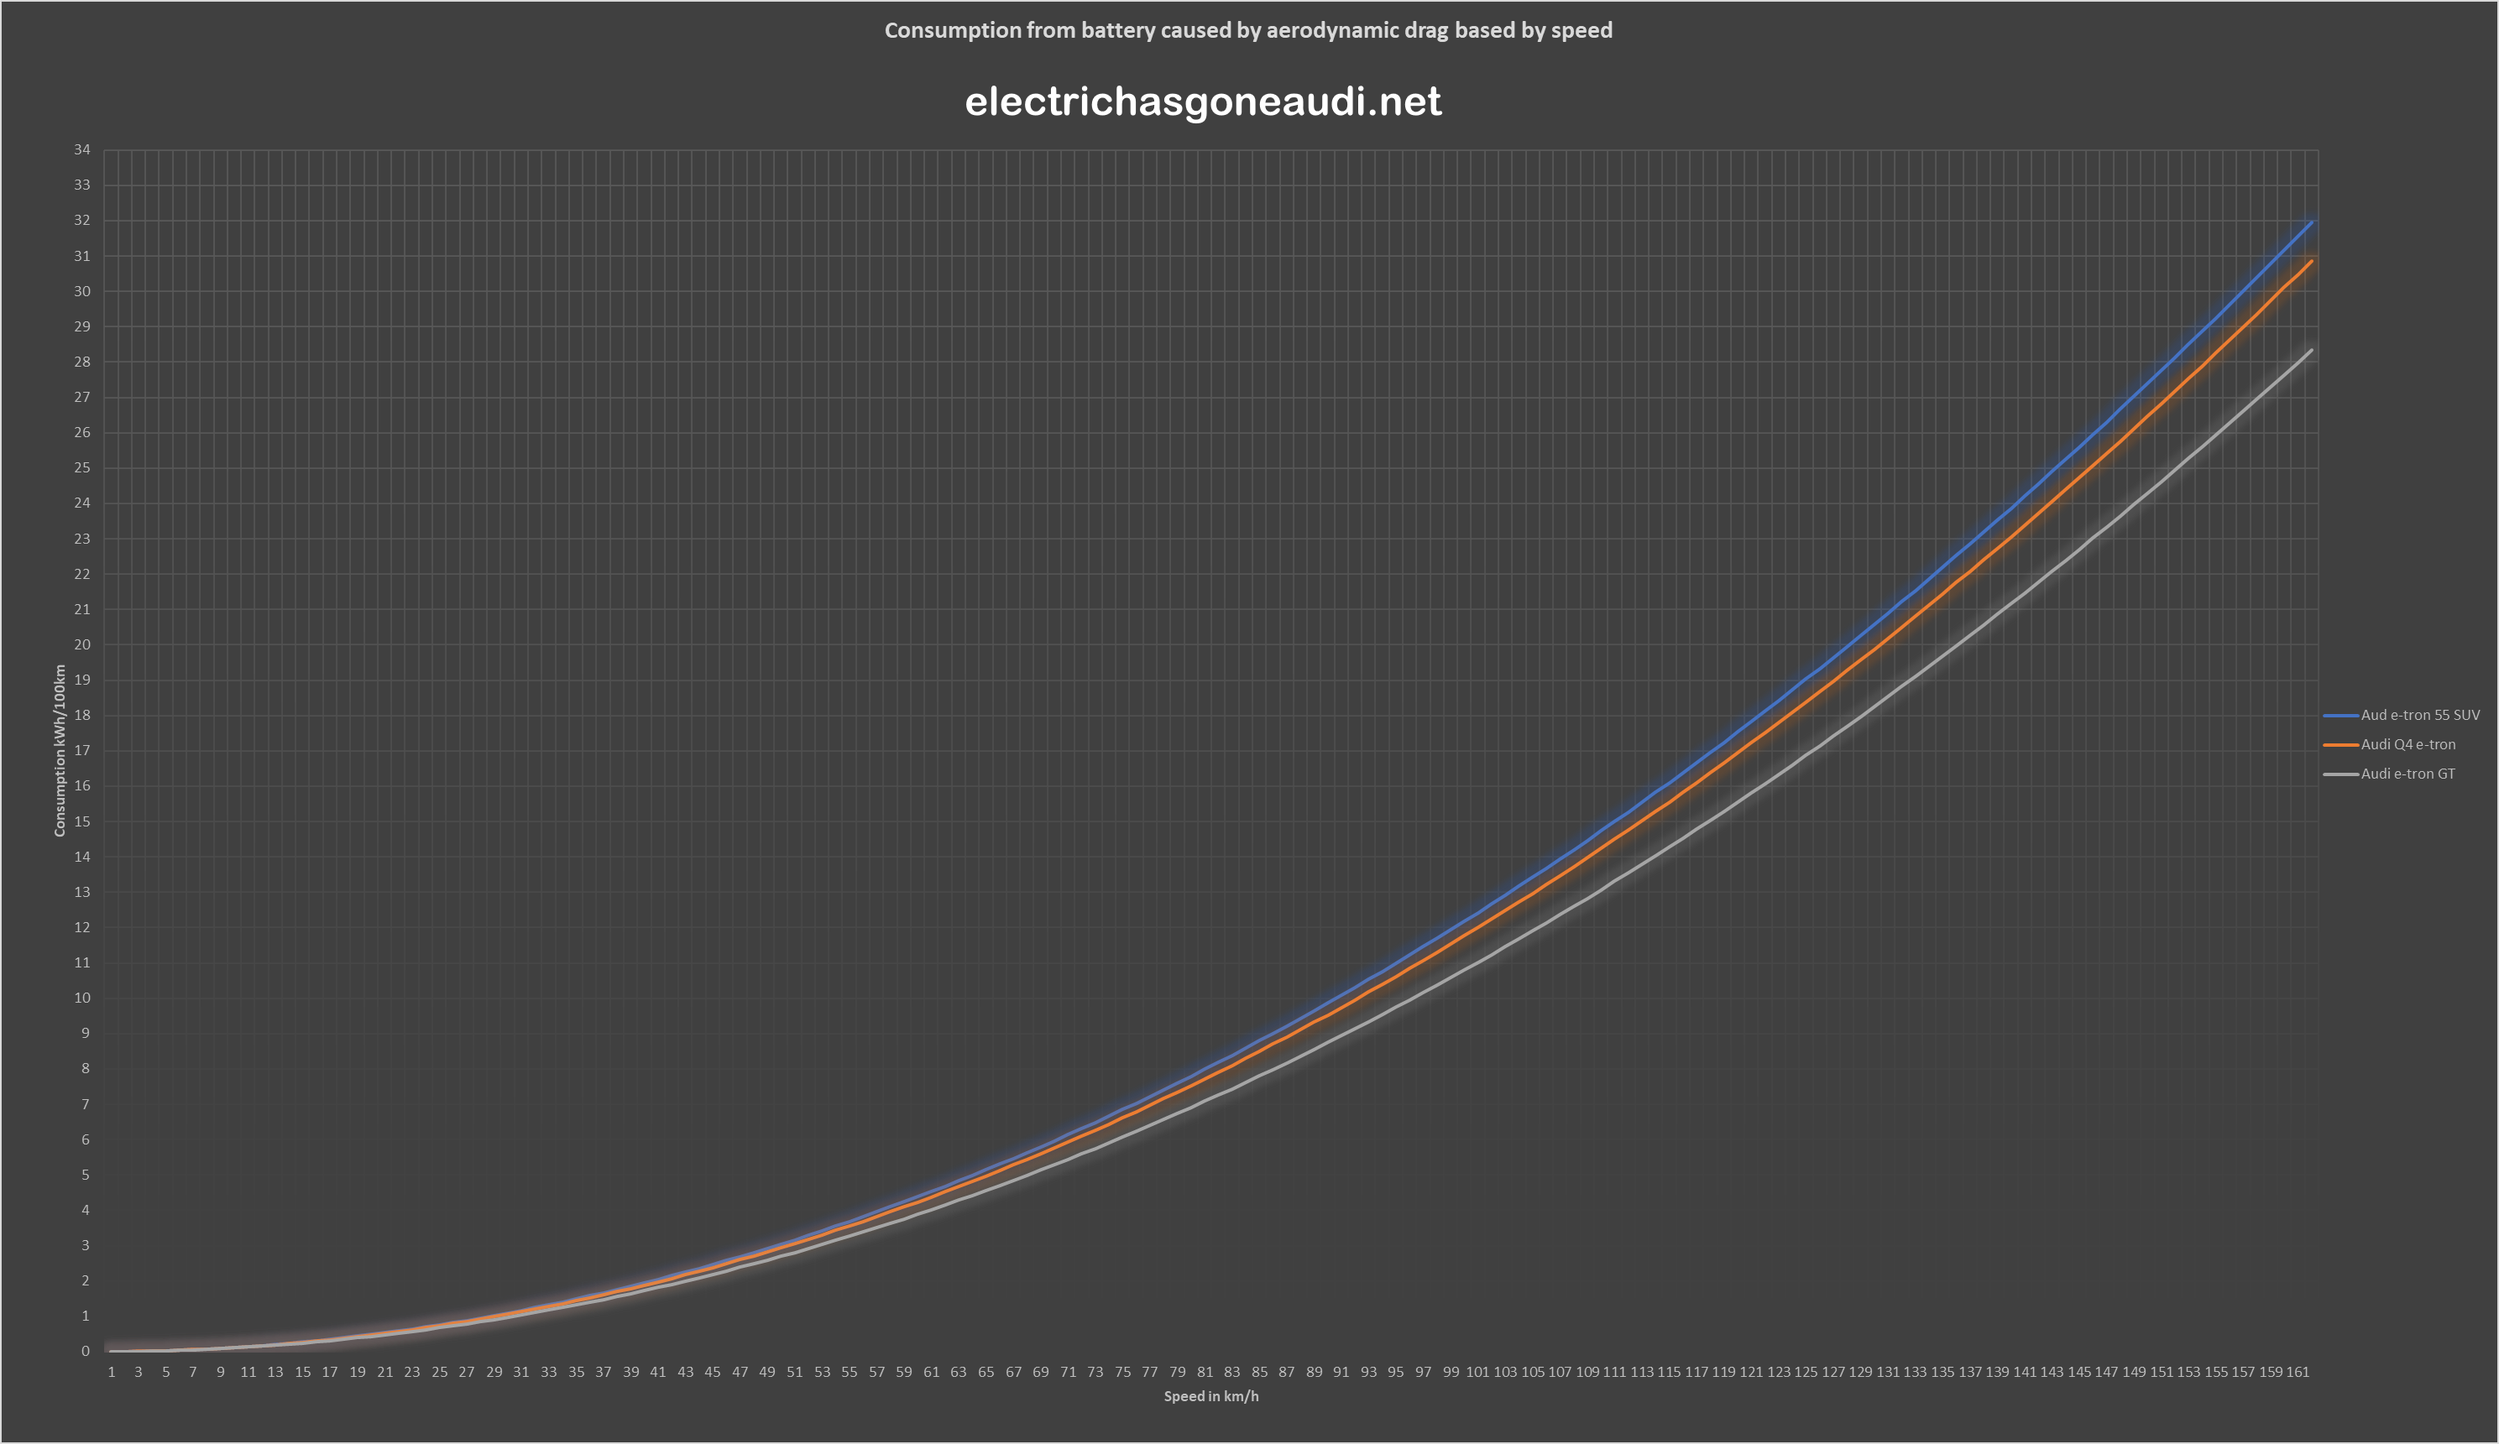
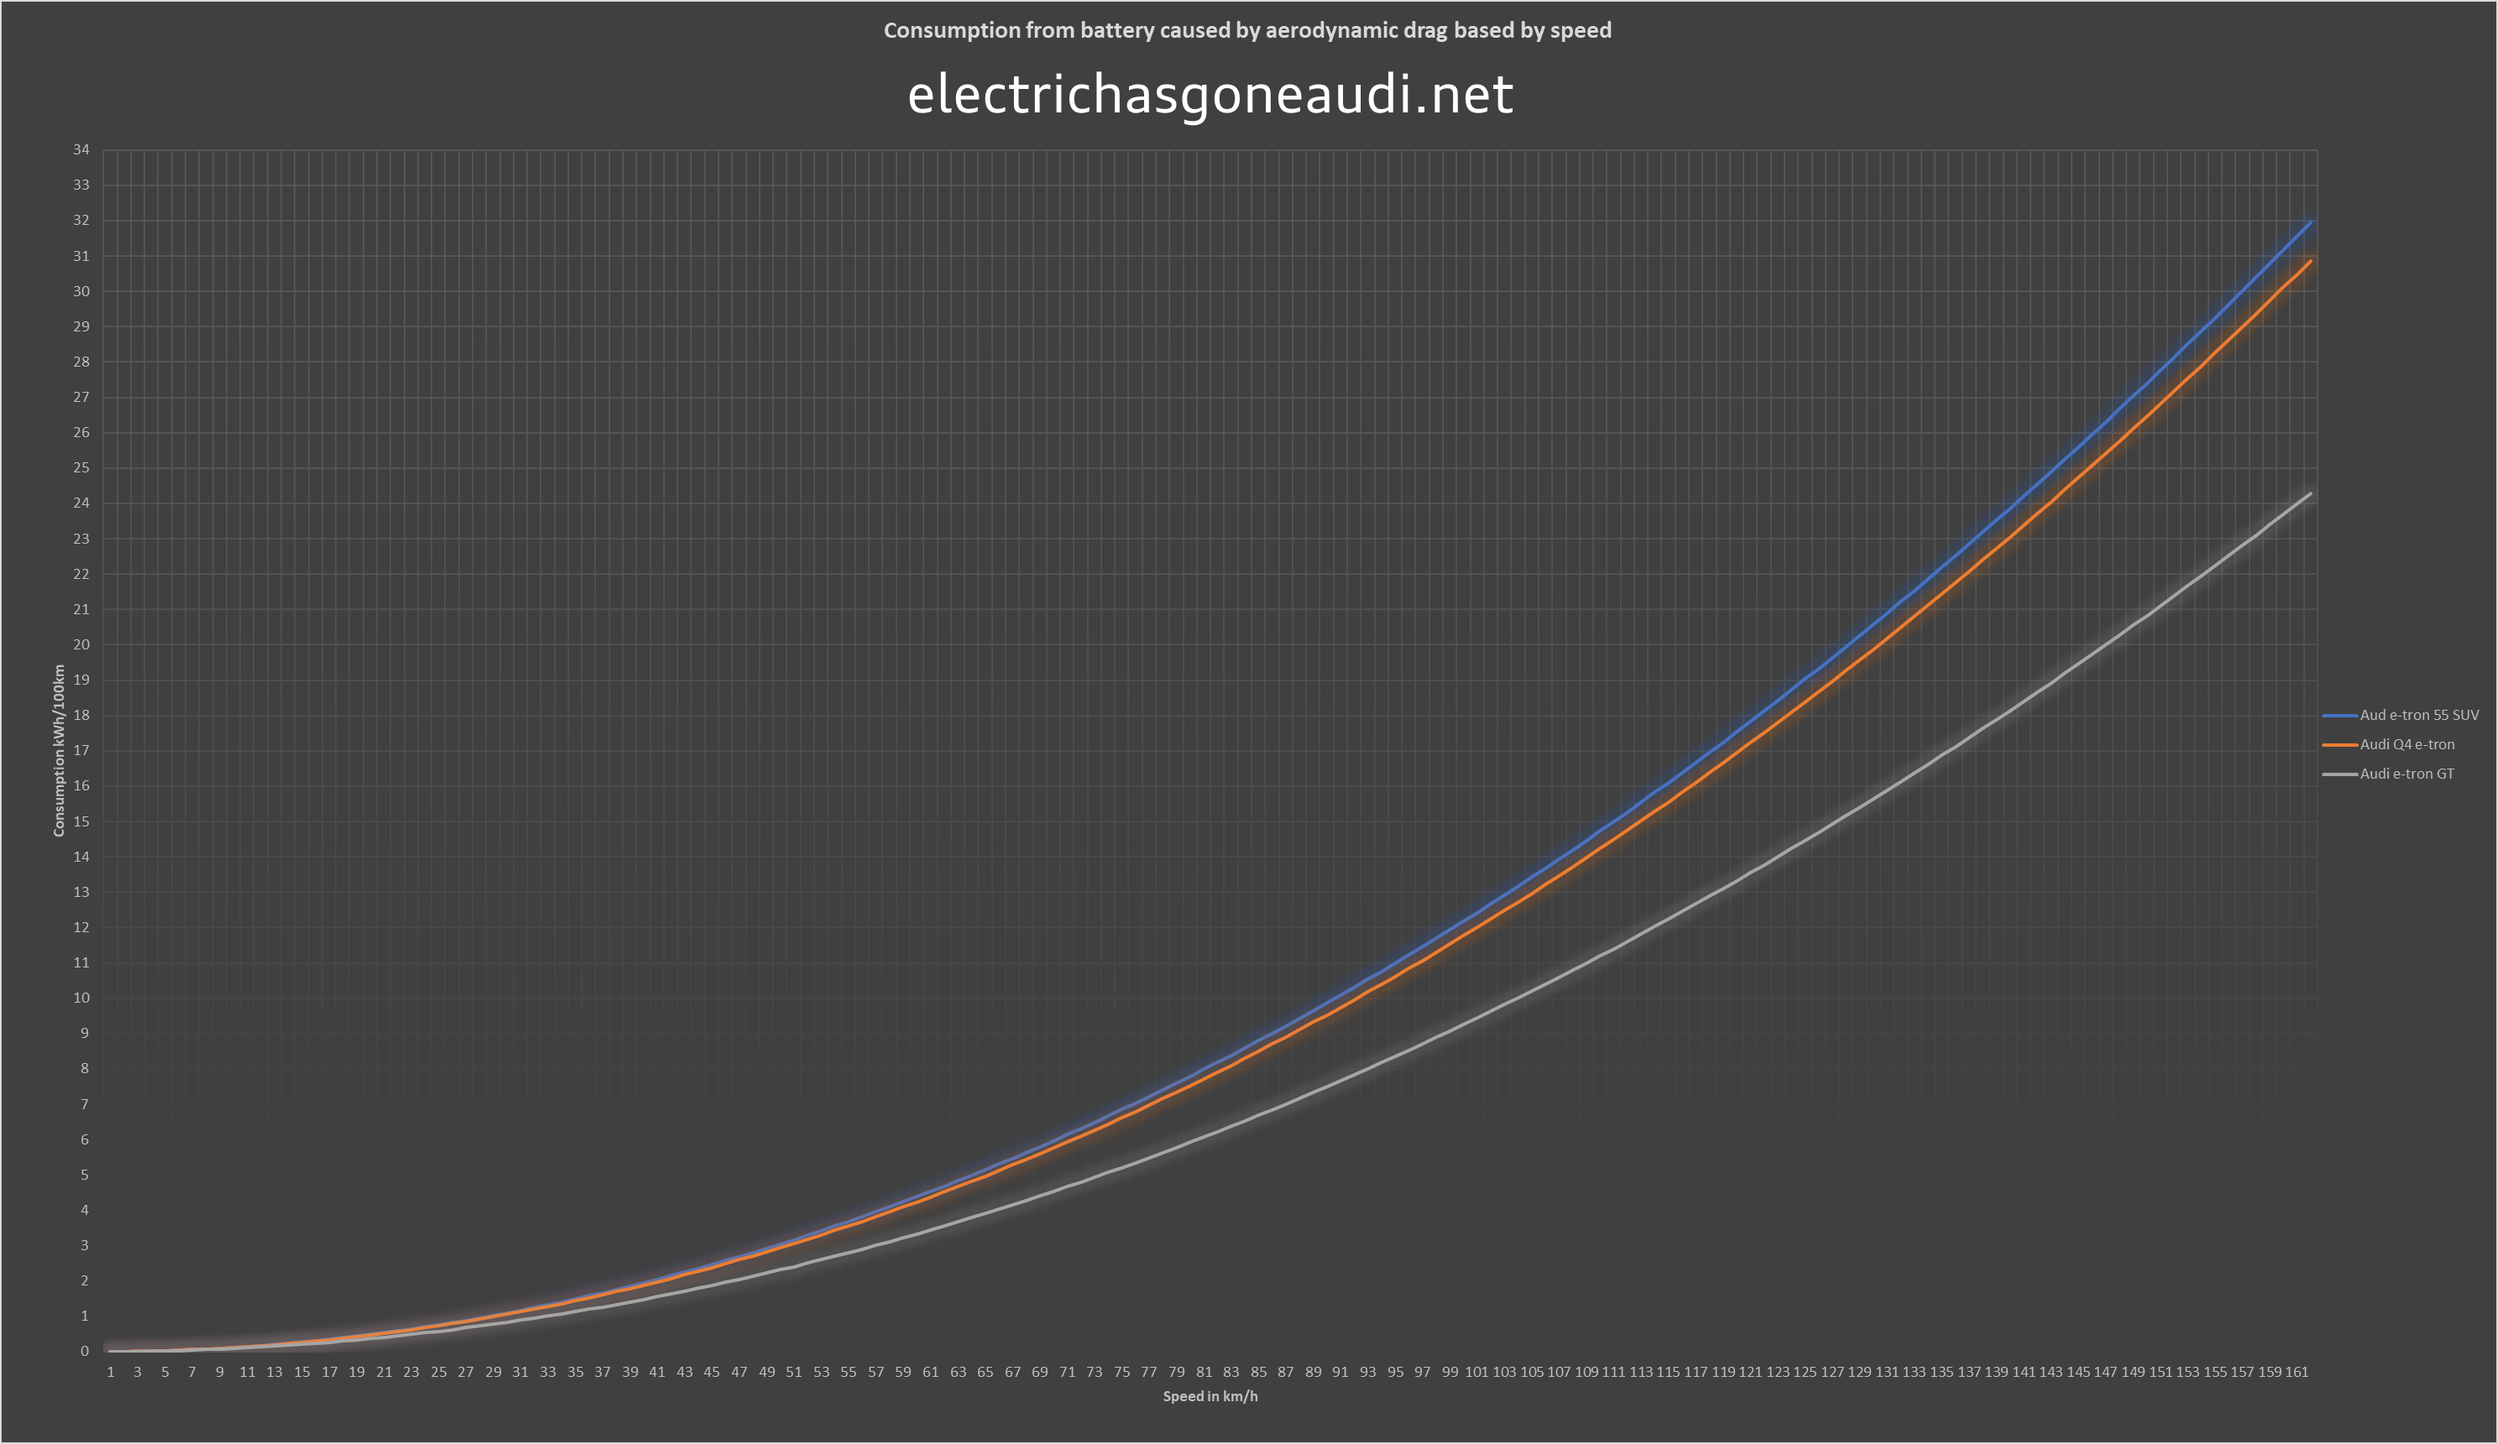
updates

diff --git a/content/guides/understandingrange/_index.nb.md b/content/guides/understandingrange/_index.nb.md
@@ -4,6 +4,7 @@ linktitle: Forstå rekkevidde
 description: For mange er rekkevidden det viktigste aspektet ved en elektrisk bil. I denne guiden forklarer vi hva som påvirker rekkevidden til din helelektriske Audi og hvorfor du ikke opplever den forventede rekkevidden.
 weight: 3
 ---
+<!-- markdownlint-disable MD033 -->
 
 Rekkevidden på elektriske biler er typisk oppgitt som [WLTP rekkevidde](https://en.wikipedia.org/wiki/Worldwide_Harmonised_Light_Vehicles_Test_Procedure) (Worldwide Harmonised Light Vehicles Test Procedure) i
 Europa eller [EPA](https://en.wikipedia.org/wiki/Fuel_economy_in_automobiles#EPA_testing_procedure:_2008_and_beyond) i USA.
@@ -38,6 +39,37 @@ påvirker det men også utformingen av felger.
 Audi A6 e-tron concept er for øyblikket modellen med lavest [drag coefficient](https://en.wikipedia.org/wiki/Drag_coefficient) med en Cw  verdi på kun 0.22
 
 ![Audi A6 e-tron concept](audia6etron.jpg "Audi A6 e-tron med Cw  verdi på kun 0.22")
+
+Grafen nedenfor viser hvor mye luftmotstanden påvirker forbruker på forskjellige modeller.
+
+<figure>
+    <a href="aerodynamicdrag.png">
+        <img src="aerodynamicdrags.png" alt="Consumption caused by aerodynamic dra" title="Consumption caused by aerodynamic dra">
+    </a>
+    <figcaption><h4>Consumption caused by aerodynamic dra</h4></figcaption>
+</figure>
+
+Calculated values for consumption only comming from aerodynamic drag based on 80% drivetrain efficiency.
+
+| Speed | Audi e-tron 55 | Audi Q4 e-tron | Audi e-tron GT |
+|-----|---------|-----------|----------|
+| 50km/h (31mph) | 3.04kWh/100km | 2.94 kWh/100km | 2.31kWh/100km |
+| 80km/h (49.7mph) | 7.79 kWh/100km | 7.52 kWh/100km | 5.92kWh/100km |
+| 120km/h (74.6mph) | 17.53kWh/100km | 16.94kWh/100km | 13.33kWh/100km |
+
+You see how at high speed the Audi e-tron GT saves a lot of energy compared to the suv because of less aerodynamic drag.
+
+This values are based on the drag coefficient and front area of the models
+
+| Model | Drag coefficient (cd) | Frontal area |
+|----|-----|------|
+| Audi e-tron SUV | 0.28 | 2.65m2 |
+| Audi e-tron Sportback | 0.26 | 2.65m2 |
+| Audi Q4 e-tron SUV | 0.28 | 2.56m2 |
+| Audi Q4 e-tron Sportback | 0.26 | 2.56m2 |
+| Audi e-tron GT | 0.24 | 2.35m2 |
+| Audi A6 e-tron sportback | 0.22 | ?m2 |
+| Audi A6 Avant e-tron sportback | 0.24 | ?m2 |
 
 ### Rullemotstand
 

diff --git a/content/models/a6-e-tron/_index.md b/content/models/a6-e-tron/_index.md
@@ -15,9 +15,9 @@ March 17. 2022 Audi also presented the Audi A6 Avant e-tron concept of this car.
     <figcaption><h4>Audi A6 e-tron and Audi A6 Avant e-tron concept</h4></figcaption>
 </figure>
 
-The expectation is that this will be launched in 2023 and the first owners will receive it in early 2024. 
+The expectation is that this will be launched in 2023 and the first owners will receive it in early 2024.
 
-It will be based on the new [PPE-platform](../../technology/bev-platforms/ppe/) 
+It will be based on the new [PPE-platform](../../technology/bev-platforms/ppe/) that is co-created with Porsche
 
 <figure>
     <a href="../../technology/bev-platforms/ppe/drivetrain.jpg">
@@ -35,7 +35,7 @@ It will be delivered in two battery sizes
 
 This will give the Audi A6 e-tron a WLTP range of approximately 520-700km depending on the trim level for the biggest battery. (13.4 - 18 kWh/100km)
 
-The battery will have an 800-Volt architecture for high-performance charging.
+The battery will have an 800-Volt architecture for high-performance charging up to 270KW for DC charging. 300km charging takes as little as 10 minutes.
 
 ![Battery](battery.png "Audi A6 e-tron battery with 12 modules and 100kWh gross")
 
@@ -48,13 +48,15 @@ The battery will have an 800-Volt architecture for high-performance charging.
     <figcaption><h4>Audi A6 Avant e-tron concept</h4></figcaption>
 </figure>
 
-The expectation is that it will come in different versions
+The expectation is that it will come in different versions. 
 
-- Audi A6 e-tron / Audi A6 Avant e-tron with small battery
-- Audi A6 / Audi A6 Avant e-tron with large battery
-- Audi A6 quattro / Audi A6 Avant e-tron quattro with large battery
-- Audi S6 Avant e-tron
-- Audi RS6 Avant e-tron
+- Audi A6 e-tron / Audi A6 Avant e-tron with small battery (45 rating)
+- Audi A6 / Audi A6 Avant e-tron with large battery (the version with longest range)(50 rating)
+- Audi A6 quattro / Audi A6 Avant e-tron quattro with large battery (55 rating)
+- Audi S6 Avant e-tron  (60 rating)
+- Audi RS6 Avant e-tron (70 rating)
+
+The concept version have 469HP and 800 nm torque. (60 rating)
 
 Audi will use different motor setups on the different variants.
 

diff --git a/content/guides/understandingrange/_index.md b/content/guides/understandingrange/_index.md
@@ -46,18 +46,30 @@ In the below graph you see how much consumption the aerodynamic drag causes for 
     <a href="aerodynamicdrag.png">
         <img src="aerodynamicdrags.png" alt="Consumption caused by aerodynamic dra" title="Consumption caused by aerodynamic dra">
     </a>
-    <figcaption><h4>Consumption caused by aerodynamic dra</h4></figcaption>
+    <figcaption><h4>Forbruk grunnet luftmotstand</h4></figcaption>
 </figure>
 
-Calculated values for consumption only comming from aerodynamic drag based on 80% drivetrain efficiency.
+Beregnede verdier for forbruk som kun kommer fra aerodynamisk luftmotstand basert på 80 % drivverkseffektivitet.
 
 | Speed | Audi e-tron 55 | Audi Q4 e-tron | Audi e-tron GT |
 |-----|---------|-----------|----------|
-| 50km/h (31mph) | 3.04kWh/100km | 2.94 kWh/100km | 2.70kWh/100km |
-| 80km/h (49.7mph) | 7.79 kWh/100km | 7.52 kWh/100km | 6.91kWh/100km |
-| 120km/h (74.6mph) | 17.53kWh/100km | 16.94kWh/100km | 15.55kWh/100km |
+| 50km/h (31mph) | 3.04kWh/100km | 2.94 kWh/100km | 2.31kWh/100km |
+| 80km/h (49.7mph) | 7.79 kWh/100km | 7.52 kWh/100km | 5.92kWh/100km |
+| 120km/h (74.6mph) | 17.53kWh/100km | 16.94kWh/100km | 13.33kWh/100km |
 
-You see how at high speed the Audi e-tron GT saves a lot of energy compared to the suv because of less aerodynamic drag.
+Du ser hvordan Audi e-tron GT i høy hastighet sparer mye energi sammenlignet med suven på grunn av mindre aerodynamisk luftmotstand.
+
+Disse verdiene er basert på luftmotstandskoeffisienten og størrelsen på frontområdet til modellene 
+
+| Model | Drag coefficient (cd) | Frontal area |
+|----|-----|------|
+| Audi e-tron SUV | 0.28 | 2.65m2 |
+| Audi e-tron Sportback | 0.26 | 2.65m2 |
+| Audi Q4 e-tron SUV | 0.28 | 2.56m2 |
+| Audi Q4 e-tron Sportback | 0.26 | 2.56m2 |
+| Audi e-tron GT | 0.24 | 2.35m2 |
+| Audi A6 e-tron sportback | 0.22 | ?m2 |
+| Audi A6 Avant e-tron sportback | 0.24 | ?m2 |
 
 ### Rolling resistance
 

diff --git a/content/models/a6-e-tron/_index.nb.md b/content/models/a6-e-tron/_index.nb.md
@@ -35,9 +35,9 @@ Den vil bli levert i to batteristørrelser
 
 Dette vil gi Audi A6 e-tron en WLTP-rekkevidde på omtrent 520-700 km avhengig av utstyrsnivået for det største batteriet. (13,4 - 18 kWh/100 km)
 
-Noe av denne lange rekkevidden skyldes veldig lav luftmotstand.
+Noe av denne lange rekkevidden skyldes veldig lav luftmotstand. Med en CD-verdi på 0.22 for Sportback versjonen og 0.24 for gir dette [lavt forbruk](../../guides).
 
-Batteriet vil ha en 800-volts arkitektur for høyytelseslading.
+Batteriet vil ha en 800-volts arkitektur for høyytelseslading med ladeeffekt opptil 270KW for lynlading. Dette gir en ladetid ned mot 10 minutter for 300km rekkevidde.
 
 ![Batteri](battery.png "Audi A6 e-tron batteri med 12 moduler og 100kWh brutto")
 
